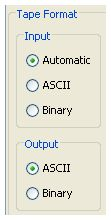
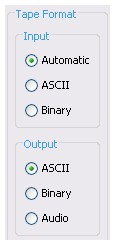
Add Kansas City tape player

diff --git a/docs/config.html b/docs/config.html
@@ -228,6 +228,35 @@ or multicore processor, the default <i>async</i> screen update option
 is likely to produce the best results.
 On older hardware the <i>sync</i> option may result in faster and/or
 smoother operation.</p>
+<hr>
+<h2 id="kcs">Kansas City Audio Encoding</h2>
+<p>These settings control the audio encoding when creating Kansas City
+Standard data files.</p>
+<table frame="box" rules="all" width="100%" cellspacing="0" cellpadding="3">
+<tr><th width="15%">Name</th><th width="15%">Values</th>
+<th width="8%">Default</th><th width="62%">Notes</th></tr>
+<tr><td><code>kcs.rate</code></td>
+<td>from <code>8000</code> to <code>96000</code></td>
+<td align="center"><code>44100</code></td>
+<td>This defines the audio sample rate.
+Higher sample values give higher quality sound but larger files.</td></tr>
+<tr><td><code>kcs.bits</code></td>
+<td><code>8</code> or <code>16</code></td>
+<td align="center"><code>16</code></td>
+<td>This defines the number of bits for each sample.
+Higher bits values give higher quality sound but larger files.</td></tr>
+<tr><td><code>kcs.baud</code></td>
+<td><code>300</code>, <code>600</code> or <code>1200</code></td>
+<td align="center"><code>300</code></td>
+<td>This defines the audio baud rate rate.
+Kansas City standard defines the rate as 300, but it was common to try
+to increase this to 600 or even 1200.</td></tr>
+<tr><td><code>kcs.lead</code></td>
+<td>from <code>0</code> to <code>10</code></td>
+<td align="center"><code>5</code></td>
+<td>This is the number of seconds of carrier tone played before the
+start and after the end of the data.</td></tr>
+</table>
 <br><table border="1" frame="above" rules="none" width="100%">
 <tr><td align="left">Tim Baldwin<br>January 2014
 <br><a href="mailto:tjb101@tinymail.co.uk">tjb101@tinymail.co.uk</a></td>

diff --git a/docs/samples.html b/docs/samples.html
@@ -242,7 +242,7 @@ guaranteed to be viewable on the PC and can probably not
 be successfully edited using standard PC editors without some
 data corruption.</p>
 <p>To help overcome these problems the simulator allows tapes to
-be stored in one of two formats:</p>
+be stored in one of three formats:</p>
 <dl>
 <dt><i>Binary</i></dt>
 <dd>This the raw bytes format as would have been stored on a real
@@ -262,6 +262,13 @@ escaped form <code>&#92;nn</code> where <code>nn</code>
 is a pair of hexadecimal digits.</p>
 <p>All the sample BASIC programs are in <i>ASCII</i> format and
 have a file extension of <code>.basic</code>.</p></dd>
+<dt><i>Audio</i></dt>
+<dd>This is the original Kansas City encoded audio format which
+is stored in the form of a WAV file.
+The audio encoding parameters can be controlled by properties
+in the <a href="config.html#kcs">system configuraton</a>. 
+Currently this format is only available when writing output 
+tapes, not for reading input.</dd>
 </dl>
 <p>The simulator will correctly recognise and load tapes in both
 <i>binary</i> or <i>ASCII</i> format and can save in either 
@@ -271,7 +278,7 @@ save in <i>ASCII</i> format (which is the default) as the
 resulting program can then be viewed and edited on the PC.
 If you are saving a tape to potentially load back onto a 
 real UK101 you will need to ensure it is in <i>binary</i>
-format.</p>
+or maybe <i>audio</i> format.</p>
 <p>The utility programs <a href="utilities.html#tread">Tape Reader</a>
 and <a href="utilities.html#twrite">Tape Writer</a> can be used
 to quickly convert between the two formats.</p>

diff --git a/docs/operation.html b/docs/operation.html
@@ -194,7 +194,10 @@ Most of the time this works well and is exactly what you want.</p>
 best setting for saving BASIC programs as it is a format which can
 be easily viewed and edited on the PC.
 If you are saving raw data or saving machine code programs you 
-may want to select the <i>Binary</i> output format.</p>
+may want to select the <i>Binary</i> output format.
+The <i>Audio</i> option saves data as an audio WAV file in encoded 
+in Kansas City Standard format - this may be useful if you want to 
+create a real CD or tape to load on a real UK101.</p>
 <p>When a tape is playing or recording the format selected 
 will be displayed to the right of the tape name.</p>
 <br clear="left"/><hr>

diff --git a/src/uk101/view/CassetteView.java b/src/uk101/view/CassetteView.java
@@ -1,7 +1,7 @@
 /**
  * Compukit UK101 Simulator
  *
- * (C) Copyright Tim Baldwin 2010,2013
+ * (C) Copyright Tim Baldwin 2010,2014
  */
 package uk101.view;
 
@@ -28,6 +28,7 @@ import javax.swing.JOptionPane;
 import javax.swing.JPanel;
 import javax.swing.Timer;
 
+import uk101.io.KansasCityFormat;
 import uk101.io.Stream;
 import uk101.machine.TapeRecorder;
 import uk101.view.component.CassetteButton;
@@ -52,12 +53,14 @@ public class CassetteView  extends JInternalFrame implements ActionListener, Ite
 
     File tapeFile;
     int inFormat, outFormat;
+    KansasCityFormat audioFormat;
 
-    public CassetteView(TapeRecorder recorder) {
+    public CassetteView(TapeRecorder recorder, KansasCityFormat kcs) {
         super("Cassette Recorder", false, false, false, true);
         this.recorder = recorder;
-        
+
         recorder.setView(this);
+        audioFormat = kcs;
  
         // Create an auto-stop timer.  Stops the cassette player if it has
         // not been used for 15 seconds.
@@ -163,7 +166,7 @@ public class CassetteView  extends JInternalFrame implements ActionListener, Ite
     void recordTape() {
         OutputStream out = null;
         if (!tapeFile.exists()) {
-            out = Stream.getOutputStream(tapeFile, outFormat);
+            out = Stream.getOutputStream(tapeFile, outFormat, audioFormat);
         } else { 
             String[] msg = {
                 "File " + tapeFile.getPath() + " already exists.",
@@ -176,13 +179,13 @@ public class CassetteView  extends JInternalFrame implements ActionListener, Ite
             if (JOptionPane.showInternalOptionDialog(this, 
                     msg, getTitle(), JOptionPane.YES_NO_OPTION, 
                     JOptionPane.WARNING_MESSAGE, null, opts, opts[0]) == JOptionPane.NO_OPTION) {
-                out = Stream.getOutputStream(tapeFile, outFormat);  
+                out = Stream.getOutputStream(tapeFile, outFormat, audioFormat);  
             } else {
                 stop.button.doClick();
             }
         }
         if (out != null) {
-            format.setValue((Stream.getFormat(out) == Stream.STREAM_ASCII) ? TapeFormat.MODE_ASCII : TapeFormat.MODE_BINARY);
+            format.setValue(tapeFormat(Stream.getFormat(out)));
             recorder.setOutputTape(out);
         }
     }
@@ -190,7 +193,7 @@ public class CassetteView  extends JInternalFrame implements ActionListener, Ite
     void playTape() {
         InputStream in = Stream.getInputStream(tapeFile, inFormat);
         if (in != null) {
-            format.setValue((Stream.getFormat(in) == Stream.STREAM_ASCII) ? TapeFormat.MODE_ASCII : TapeFormat.MODE_BINARY);
+            format.setValue(tapeFormat(Stream.getFormat(in)));
             recorder.setInputTape(in);
         }
     }
@@ -199,6 +202,11 @@ public class CassetteView  extends JInternalFrame implements ActionListener, Ite
         format.setValue(TapeFormat.MODE_UNSET);
         recorder.setInputTape(null);
         recorder.setOutputTape(null);
+    }
+    
+    String tapeFormat(int format) {
+        return ((format == Stream.STREAM_ASCII) ? TapeFormat.MODE_ASCII : 
+                (format == Stream.STREAM_AUDIO) ? TapeFormat.MODE_AUDIO : TapeFormat.MODE_BINARY);
     }
     
     /*

diff --git a/src/uk101/io/WaveOutputStream.java b/src/uk101/io/WaveOutputStream.java
@@ -28,15 +28,15 @@ import javax.sound.sampled.AudioSystem;
 public class WaveOutputStream extends OutputStream {
  
     OutputStream outputStream;
-    KansasCityFormat kcFormat;
-    KansasCityEncoder kcEncoder;
-    ByteArrayOutputStream rawOutput;
+    KansasCityFormat audioFormat;
+    KansasCityEncoder audioEncoder;
+    ByteArrayOutputStream audioStream;
 
     public WaveOutputStream(OutputStream out, KansasCityFormat format) {
         outputStream = out;
-        kcFormat = format;
-        kcEncoder = new KansasCityEncoder(kcFormat);
-        rawOutput = new ByteArrayOutputStream();
+        audioFormat = format;
+        audioEncoder = new KansasCityEncoder(audioFormat);
+        audioStream = new ByteArrayOutputStream();
     }
     
     /*
@@ -44,18 +44,18 @@ public class WaveOutputStream extends OutputStream {
      */
 
     public void write(int b) throws IOException {
-        if (rawOutput.size() == 0)
-            kcEncoder.encodeTone(kcFormat.getLeadIn(), rawOutput);
-        kcEncoder.encodeByte(b, rawOutput);
+        if (audioStream.size() == 0)
+            audioEncoder.encodeTone(audioFormat.getLeadIn(), audioStream);
+        audioEncoder.encodeByte(b, audioStream);
     }
     
     public void close() throws IOException {
-        if (rawOutput.size() != 0) {
-            kcEncoder.encodeTone(kcFormat.getLeadOut(), rawOutput);
-            kcEncoder.encodeEnd(rawOutput);
-            ByteArrayInputStream raw = new ByteArrayInputStream(rawOutput.toByteArray());
-            int frames = raw.available() / kcFormat.getFrameSize();
-            AudioInputStream audioIn = new AudioInputStream(raw, kcFormat, frames);
+        if (audioStream.size() != 0) {
+            audioEncoder.encodeTone(audioFormat.getLeadOut(), audioStream);
+            audioEncoder.encodeEnd(audioStream);
+            ByteArrayInputStream in = new ByteArrayInputStream(audioStream.toByteArray());
+            int frames = in.available() / audioFormat.getFrameSize();
+            AudioInputStream audioIn = new AudioInputStream(in, audioFormat, frames);
             AudioSystem.write(audioIn, Type.WAVE, outputStream);
             audioIn.close();
         }

diff --git a/src/uk101/machine/Configuration.java b/src/uk101/machine/Configuration.java
@@ -1,7 +1,7 @@
 /**
  * Compukit UK101 Simulator
  *
- * (C) Copyright Tim Baldwin 2010,2013
+ * (C) Copyright Tim Baldwin 2010,2014
  */
 package uk101.machine;
 
@@ -19,6 +19,7 @@ import java.util.Enumeration;
 import java.util.Properties;
 
 import uk101.Main;
+import uk101.io.KansasCityFormat;
 import uk101.utils.Args;
 
 /**
@@ -43,6 +44,10 @@ public class Configuration extends Properties {
     public static final String SCREEN_OFFSET = "screen.offset";
     public static final String SCREEN_COLOUR = "screen.colour";
     public static final String SCREEN_UPDATE = "screen.update";
+    public static final String KCS_RATE = "kcs.rate";
+    public static final String KCS_BITS = "kcs.bits";
+    public static final String KCS_BAUD = "kcs.baud";
+    public static final String KCS_LEAD = "kcs.lead";
     public static final String ROM = "rom.";
     
     public static final String WHITE = "white";
@@ -110,6 +115,10 @@ public class Configuration extends Properties {
         applyStr(props, SCREEN_COLOUR, WHITE, GREEN, AMBER);
         apply(props, SCREEN_COLOUR, "screen.color", 0, 0, WHITE, GREEN, AMBER);
         applyStr(props, SCREEN_UPDATE, SYNC, ASYNC);
+        applyInt(props, KCS_RATE, 8000, 96000);
+        applyStr(props, KCS_BITS, "8", "16");
+        applyStr(props, KCS_BAUD, "300", "600", "1200");
+        applyInt(props, KCS_LEAD, 0, 10);
         applyROM(props);
     }
     
@@ -174,6 +183,17 @@ public class Configuration extends Properties {
     
     public String getValue(String key) {
         return getProperty(key);
+    }
+    
+    /*
+     * Return combined KCS audio format 
+     */
+    public KansasCityFormat getAudioFormat() {
+        int rate = getInt(KCS_RATE);
+        int bits = getInt(KCS_BITS);
+        int baud = getInt(KCS_BAUD);
+        int lead = getInt(KCS_LEAD)*1000;
+        return new KansasCityFormat(rate, bits, baud, lead, lead);
     }
     
     /*

diff --git a/src/uk101/view/component/TapeFormat.java b/src/uk101/view/component/TapeFormat.java
@@ -1,7 +1,7 @@
 /**
  * Compukit UK101 Simulator
  *
- * (C) Copyright Tim Baldwin 2010
+ * (C) Copyright Tim Baldwin 2010,2014
  */
 package uk101.view.component;
 
@@ -25,6 +25,7 @@ public class TapeFormat extends JPanel {
     public static final String MODE_AUTO = "Automatic";
     public static final String MODE_ASCII = "ASCII";
     public static final String MODE_BINARY = "Binary";
+    public static final String MODE_AUDIO = "Audio";
     public static final String MODE_UNSET = " ";
 
     ButtonGroup inputGroup, outputGroup;
@@ -53,12 +54,15 @@ public class TapeFormat extends JPanel {
         op.setBorder(BorderFactory.createTitledBorder("Output"));
         JRadioButton oa = new JRadioButton(MODE_ASCII, true);
         JRadioButton ob = new JRadioButton(MODE_BINARY);
+        JRadioButton ow = new JRadioButton(MODE_AUDIO);
         oa.setActionCommand(Integer.toString(Stream.STREAM_ASCII));
         ob.setActionCommand(Integer.toString(Stream.STREAM_BINARY));
+        ow.setActionCommand(Integer.toString(Stream.STREAM_AUDIO));
         outputGroup = new ButtonGroup();
-        outputGroup.add(oa);  outputGroup.add(ob);
+        outputGroup.add(oa);  outputGroup.add(ob);  outputGroup.add(ow);
         op.add(oa);  op.add(Box.createVerticalStrut(2));
-        op.add(ob);
+        op.add(ob);  op.add(Box.createVerticalStrut(2));
+        op.add(ow);
 
         add(ip);
         add(Box.createVerticalStrut(5));

diff --git a/src/uk101/io/Stream.java b/src/uk101/io/Stream.java
@@ -24,17 +24,20 @@ public class Stream {
     public static final int STREAM_SELECT = 0;
     public static final int STREAM_ASCII = 1;
     public static final int STREAM_BINARY = 2;
+    public static final int STREAM_AUDIO = 3;
 
     /*
-     * Create an OutputStream in either ASCII or Binary format
+     * Create an OutputStream in either ASCII, Binary or Audio format
      */
-    public static OutputStream getOutputStream(File file, int format) {
+    public static OutputStream getOutputStream(File file, int format, KansasCityFormat kcs) {
         OutputStream out = null;
         try {
             if (format == STREAM_ASCII) {
                 out = new UK101OutputStream(new FileWriter(file));
             } else if (format == STREAM_BINARY) {
                 out = new FileOutputStream(file);
+            } else if (format == STREAM_AUDIO) {
+                out = new WaveOutputStream(new FileOutputStream(file), kcs);
             }
         } catch (IOException e) {
             System.err.println(e);
@@ -91,6 +94,7 @@ public class Stream {
     }
     
     public static int getFormat(OutputStream stream) {
-        return (stream instanceof UK101OutputStream) ? STREAM_ASCII : STREAM_BINARY;
+        return (stream instanceof UK101OutputStream) ? STREAM_ASCII : 
+                (stream instanceof WaveOutputStream) ? STREAM_AUDIO : STREAM_BINARY;
     }
 }

diff --git a/src/uk101/machine/Loudspeaker.java b/src/uk101/machine/Loudspeaker.java
@@ -31,6 +31,7 @@ public class Loudspeaker extends OutputStream {
     
     public void open() throws LineUnavailableException {
         sound.open();
+        sound.start();          
     }
     
     public void close() {
@@ -41,10 +42,9 @@ public class Loudspeaker extends OutputStream {
     
     public void write(byte[] b) {
         sound.write(b, 0, b.length);
-        sound.start();  
     }
 
     public void write(int b) throws IOException {
-        throw new IOException();    // Cannot write single bytes
+        throw new IOException("Cannot write single bytes of sound");
     }
 }

diff --git a/src/uk101/view/ComputerView.java b/src/uk101/view/ComputerView.java
@@ -51,7 +51,7 @@ public class ComputerView extends JDesktopPane implements ActionListener {
         // Create views for the various machine elements
         video = new VideoView(computer.video, cfg);
         keyboard = new KeyboardView(computer, computer.keyboard);
-        cassette = new CassetteView(computer.recorder);
+        cassette = new CassetteView(computer.recorder, cfg.getAudioFormat());
         machine = new MachineView(computer, this);
         
         // Attach the keyboard handler to each top level frame

diff --git a/src/uk101/io/KansasCityEncoder.java b/src/uk101/io/KansasCityEncoder.java
@@ -35,8 +35,8 @@ public class KansasCityEncoder {
     KansasCityFormat format;
     byte[] bit0, bit1, zero;
     
-    public KansasCityEncoder(KansasCityFormat fmt) {
-        format = fmt;
+    public KansasCityEncoder(KansasCityFormat kcs) {
+        format = kcs;
         int n = 4/(format.getBaudRate()/KansasCityFormat.BAUD300);
         bit0 = getSamples(n, LO_TONE);      // n cycles of 1200Hz
         bit1 = getSamples(2*n, HI_TONE);    // 2n cycles of 2400Hz

diff --git a/test/src/uk101/view/TestCassetteView.java b/test/src/uk101/view/TestCassetteView.java
@@ -17,7 +17,7 @@ public class TestCassetteView extends BaseViewTest {
 
     protected void setupTest() {
         // Create the cassette component and add to the frame.
-        cView = new CassetteView(new TapeRecorder(testComputer.acia));
+        cView = new CassetteView(new TapeRecorder(testComputer.acia), null);
         testView.add(cView);
     }
 
